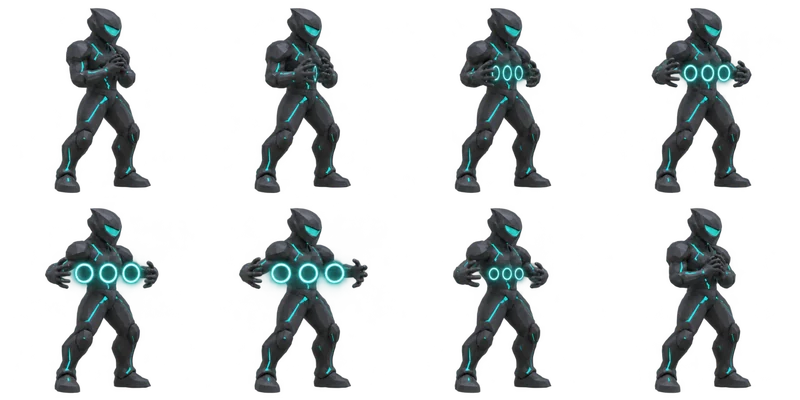
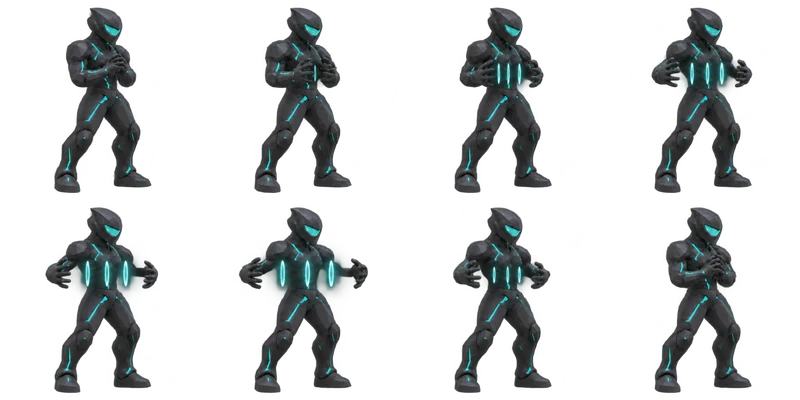
Turn the upright Electro Discs edge-on during the reveal

diff --git a/arena.html b/arena.html
@@ -253,7 +253,7 @@
 <script src="./assets/boulder-weight.js?v=0.180.0" defer></script>
 <script src="./assets/heizmann.js?v=0.180.0" defer></script>
 <script src="./assets/venus-trap.js?v=0.180.0" defer></script>
-<script src="./assets/electro-disc.js?v=0.191.0" defer></script>
+<script src="./assets/electro-disc.js?v=0.192.0" defer></script>
 <script src="./arena.js?v=0.190.0" defer></script>
 <script src="./assets/wizard-home-v135.js?v=0.180.0" defer></script>
 </body>

diff --git a/assets/electro-disc.js b/assets/electro-disc.js
@@ -1,7 +1,7 @@
 (()=>{
   const atlas=new Image(),reveal=new Image(),listeners=[];
   reveal.onload=()=>listeners.splice(0).forEach(fn=>fn());
-  reveal.src='./assets/electro-disc-reveal.webp?v=0.191.0';
+  reveal.src='./assets/electro-disc-reveal.webp?v=0.192.0';
   atlas.src='./assets/electro-disc.webp?v=0.190.0';
   const clamp=p=>Math.max(0,Math.min(1,p));
   const mix=(a,b,p)=>a+(b-a)*p;
